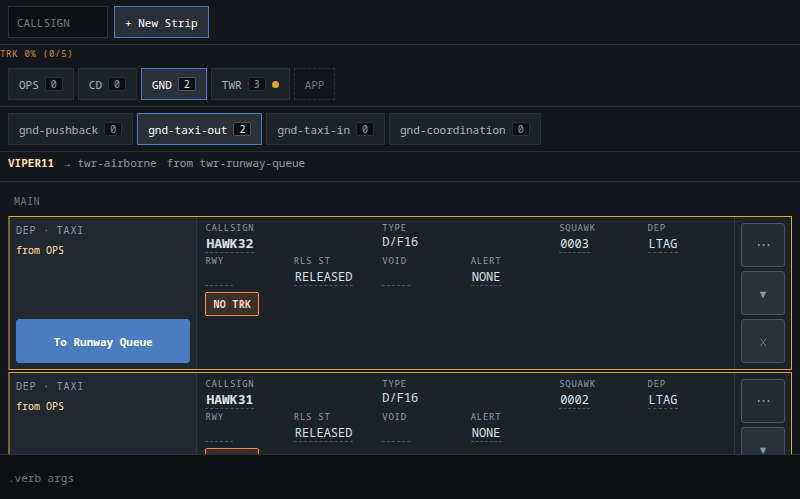
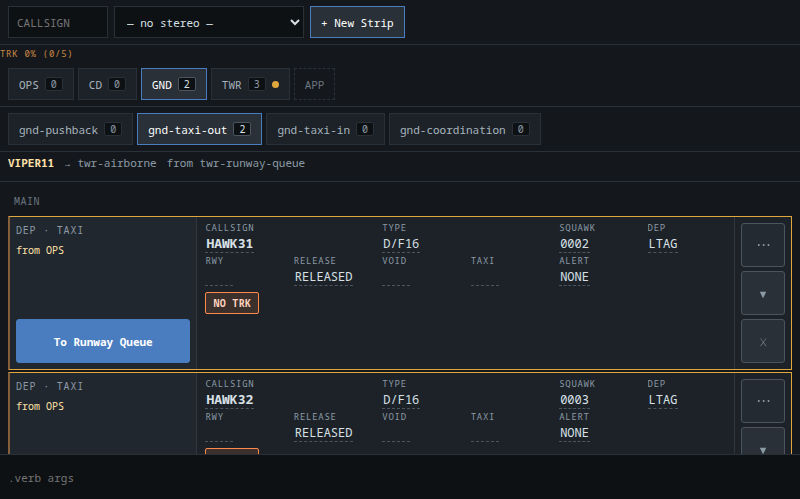
docs(wip): UI-A notes

diff --git a/docs/wip/UI-A.md b/docs/wip/UI-A.md
@@ -1,0 +1,57 @@
+# UI-A — the UI follow-up lane (U1-U5, U8, S-L15, S-L16, S-L23 and S-L1b findings)
+
+Branch `lane/UI-A-followup`, cut from `efsp-wp5-correlation` at `d9e9176`. Run on `E2E_LANE=2`. No ADR taken
+(0090 stays free): every change below is a field-list, label or gesture choice inside ADR 0056/0058's rules.
+
+## What changed
+
+| Item | Change | Where |
+|---|---|---|
+| U1 | OPS shows ORDNANCE (3G) on its DEPARTURE face, always; OPS may write 3G on any non-DROPPED departure whoever holds it (the 14E precedent, a second row in `NON_OWNER_BLOCK_WRITES`) | `strip-fields.js`; `permission.js` (append only, one row + comment) |
+| U2 | Root cause: `noteEfspArrivals` skipped every new Strip whose `updatedBy` was one of *my* controller ids, and a coordination replica carries the proposer's id, so one controller holding APP and CTR was never told. A minted replica (coordination `mintedForCoordination`, TOFI `mintedForTofi`) is now an arrival whoever made it | `efsp-arrivals.js` |
+| U3 | Label `IFR` -> `KEEP IFR` (8-char rule) with a hover on the label saying it is TOFI's `ifrActive`: the flight stays IFR under tactical control and ATC keeps separating it. No colour | `strip-template.js` (labels, `BLOCK_TITLES`) |
+| U4 | TYPE (Block 3, a composite) opens an editor on the bare aircraft type and writes Block 3A. The wake category stays in the expanded view (nothing derives it from the type; guessing would put a made-up value on a Strip) | `strip-template.js` `editRedirectFor`, `bay-view.js` `_buildBlockCell`/`_startBlockEdit` |
+| U5 | RELEASE (14A, the release state; label was `RLS ST`) on a DEPARTURE's face at APP and CTR, where the release travels (guide 4.6.2) | `strip-fields.js`, `strip-template.js` |
+| U8 | When the paired mission Strip (`tofiCoordination.peerStripId`) is OFF_STATION or RTB and the ATC Strip's TOFI is ACTIVE, the NLA slot on CTR's Strip is a filled `TOFI Exit` button (`data-strip-action="tofi-exit-primary"`), replacing the NLA button (which would be Drop/Hand on, both blocked under an active TOFI). Render signature carries the mission line's state (S-L14) | `efsp-nla.js` `tofiExitDueFor`, `strip-view.js`, `bay-view.js` (one signature line) |
+| S-L15 | One-input entry points: Alt+click on a Strip toggles OFFSET, Ctrl/Cmd+click steps HIGHLIGHT (yellow, cyan, lime, off). The menu item and the right-click swatches stay (2 inputs). The `bay-view.js` comment that said the swatch met the ceiling is corrected. New `GESTURE_INPUT_COST` rows | `bay-view.js`, `efsp-metrics-client.js`, metrics panel text |
+| S-L16 W2 | TAXI (17) on GND's face, TAKEOFF (18) on TWR's | `strip-fields.js` |
+| S-L16 W3 | A typed TAXI/TAKEOFF earlier than the (new) proposed departure gets a dotted underline and a hover saying why a typed time does not follow a P-time. No colour | `strip-template.js` `typedTimeBehindPlan`, css |
+| S-L16 W5 | Retyping the value an estimate (italic) shows is no longer a no-op: it sends the value, so the estimate becomes the actual. The hover says "Type it again to accept it as the actual" | `bay-view.js`, `strip-template.js` |
+| S-L16 vul | `setField` refuses a vul start that is not before the end ("move the end first") and an end not after the start. Clearing is always allowed | `fdr-store.js` `_vulWindowRefusal` |
+| S-L23 | A held TAC_C2 gets a client-local tab "with AIC/JTAC" listing the live MISSION lines AIC/JTAC hold (only while there is one), so a TAC_C2-only controller can answer CTR's TOFI exit on an AIC-held line. A controller holding nothing but JTAC at a Facility gets no drop-only tabs there (H59) | `efsp-state.js` `efspLinesWithOthers`, `efsp-panel.js`, `bay-view.js` `_isPseudoBayId` |
+| S-L1b | `_renderArrivalsLine` caches its element; `srs-radio.js` caches the two buttons `_renderSlots` read; `openPanel` waits for `dock` | `efsp-panel.js`, `srs-radio.js`, `e2e/helpers/app.js` |
+
+Server edits (minimal, listed): `permission.js` (one `NON_OWNER_BLOCK_WRITES` row + a comment line; no restructuring),
+`fdr-store.js` (`_vulWindowRefusal` + one call in `setField`). Nothing in `nla.js`/`block-map.js`.
+
+## Defaults taken (P2)
+
+- **U1**: 3G is on OPS's face always (not "only when set"): OPS is where the load state is recorded. OPS may write it on a
+  DEPARTURE only; OPS has no ARRIVAL Bay, so an arrival row would be unreachable.
+- **U3**: no desk question; the field stays on CTR/APP faces with the clearer label and hover. The existing 8-character
+  label test forced `KEEP IFR`.
+- **U4**: only the aircraft type is editable from TYPE (not the wake category, not the formation size).
+- **U5**: "DEP/APP and CTR" read as a departure Strip at APP and CTR. The Block is the release state 14A.
+- **U8**: replaces the NLA button rather than adding a second one; TOFI Exit stays in the menu as before.
+- **S-L15**: modifier clicks (Alt, Ctrl/Cmd), not keyboard shortcuts. Ctrl+click is a context click on macOS; the right-click
+  swatches still work there.
+- **S-L16 vul**: the refusal is server-side only; the client shows the refusal banner as for any SetBlock.
+- **S-L23**: the "with AIC/JTAC" tab is read-only guidance: nothing can be dropped on it, and it lists MISSION lines only.
+
+## Walks not done / left open
+
+- U6 (block altitudes) untouched, as instructed; the ALT field is as it was.
+- The U2 fix was verified with one controller holding APP and CTR (the case the code could not handle). A separate CTR
+  controller was already covered by `efsp-arrivals.test.js`; if the human still sees no notification with two controllers,
+  the next suspect is `heldPositions`/`getActingPositions()` for CENTER at the receiving client.
+- GCI-held lines do not appear in the "with AIC/JTAC" tab (GCI is not a TAC_C2 delegate; H2 covers AIC and JTAC).
+- The metrics `time-to-find` still counts the "with" tab as a real Bay (harmless).
+- Dockview-hidden RADIO: `_renderSlots` is fixed by caching; `srs-radio.js` has no unit test (browser-only).
+
+## For the guide / briefing (supervisor folds)
+
+- Guide 3G/ordnance: OPS records the load state on its own face; any non-owner OPS may write it on a departure.
+- Guide gestures: Alt+click = offset, Ctrl+click = highlight step, in addition to the menu/right-click forms.
+- Guide 4.6.3: the Strip's `KEEP IFR` is `ifrActive`; hover says what it means.
+- Guide 10.5 / ADR 0073 "left open": W2, W3 and W5 are closed as described above.
+- Usage guide: TOFI Exit appears as the Strip's main button on CTR once the mission line is OFF_STATION/RTB.
